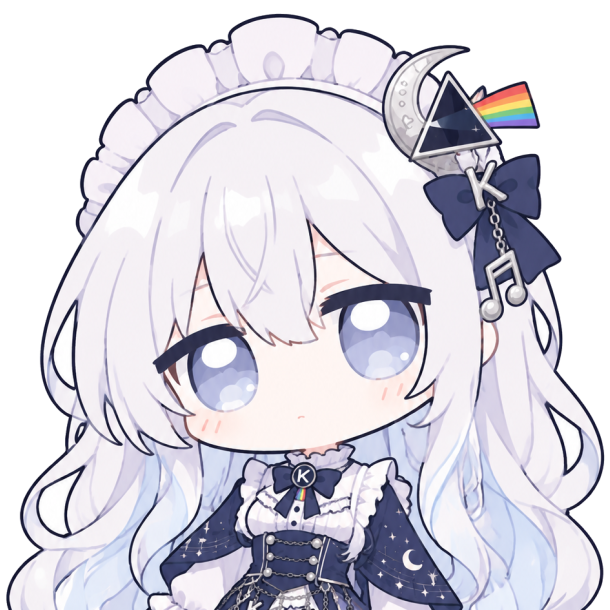
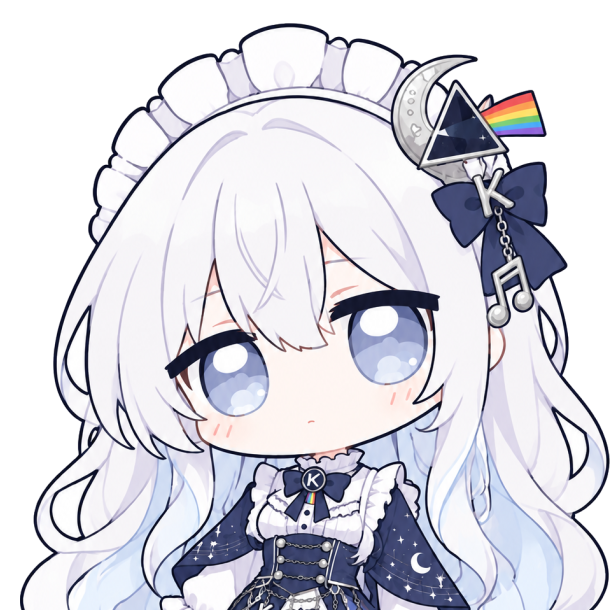
feat(role): 六张内置立绘统一几何；GPT 娘回滚、kimi 娘换新、哈基米清白底
六张内置立绘（嘎啦嘛 / 大肥鱼 / GPT娘 / kimi娘 / 小克 / 哈基米）重归一化到同一画布
规格：610×610 画布、内容高 587、内容右边与底边都贴到画布边。此前画布 608 与 610 混用、
内容高在 573–601 之间各不相同，切角色时角色的身高与离右边框的距离都会变——挂件本身贴
屏幕右缘，右对齐才能让角色在切换时不横向跳。

- gpt.png 回滚为原立绘（字节等于移植基线里的 assets/gpt.png）
- kimi.png 换新立绘：边缘泛洪抠底 + 半身取景（裁切高度 = 全局最大内容宽）+ 归一化
- gemini.png：抠底后加一道「被内容包住的白区」清除，清掉发间残留的浅色背景。判据只看
  颜色：与页面底色色差 ≤8 的判为漏抠的背景，色差更大的保留（对照手工抠图结果，那些块
  是角色自身的浅色部分）
- README：画布规格写实（原文写「内容高度约 98%」，实际收口在 587/610）

与 ZCode 线同口径同批次：两条线的内置立绘共用同一套素材。

diff --git a/README.md b/README.md
@@ -28,7 +28,7 @@
 
 **沿用自上游**：`assets/` 下上游素材（鲸鱼形象、`rua.gif`、两套音效）、气泡 SVG 几何、字号档、动画参数、拖拽/四分吸附/左吸附镜像/alpha 命中检测、随机台词六组的文案与权重、峰谷定价表与时段规则、记账模式语义、余额接口取项规则。
 
-**新增素材（非上游）**：`GLM.png`（嘎啦嘛）、`gpt.png`（GPT娘）、`kimi.png`（kimi娘）、`gemini.png`（哈基米）、README 头图 `wb.png`（WorkBuddy 版形象） —— 均为项目自有素材；`xiaoke.png`（小克）取自 [aklnaaw/dsh-xiaoke-widget](https://github.com/aklnaaw/dsh-xiaoke-widget)（MIT），**已获原作者授权**，并按本仓库角色的画布规格等比归一化（内容高度约 98%、底/右对齐），与其余内置形象观感一致。
+**新增素材（非上游）**：`GLM.png`（嘎啦嘛）、`gpt.png`（GPT娘）、`kimi.png`（kimi娘）、`gemini.png`（哈基米）、README 头图 `wb.png`（WorkBuddy 版形象） —— 均为项目自有素材；`xiaoke.png`（小克）取自 [aklnaaw/dsh-xiaoke-widget](https://github.com/aklnaaw/dsh-xiaoke-widget)（MIT），**已获原作者授权**。六张内置立绘统一到同一画布规格：**610×610 画布、内容高 587、内容右边与底边都贴到画布边**（右下对齐是刚需——挂件贴屏幕右缘，右对齐才能做到切换角色时角色不横向跳），视觉上六个角色的身高与离右边框的距离一致。
 
 **ZCode 版移植期重写**：本地服务 + 独立页面 + 桌面浮层的呈现层；三级凭据发现链；每轮消耗改读 ZCode 落库的 `turn_usage`；MCP 服务、SessionStart 自启 hook、skill、`/fox` 命令与 CLI；出站白名单与本地服务加固。
 
